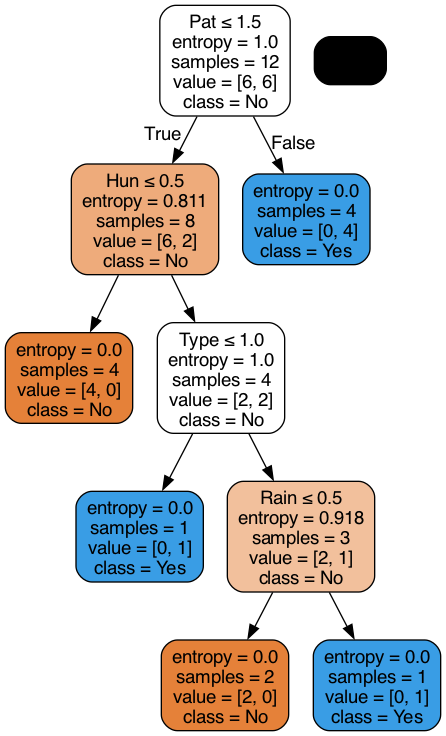
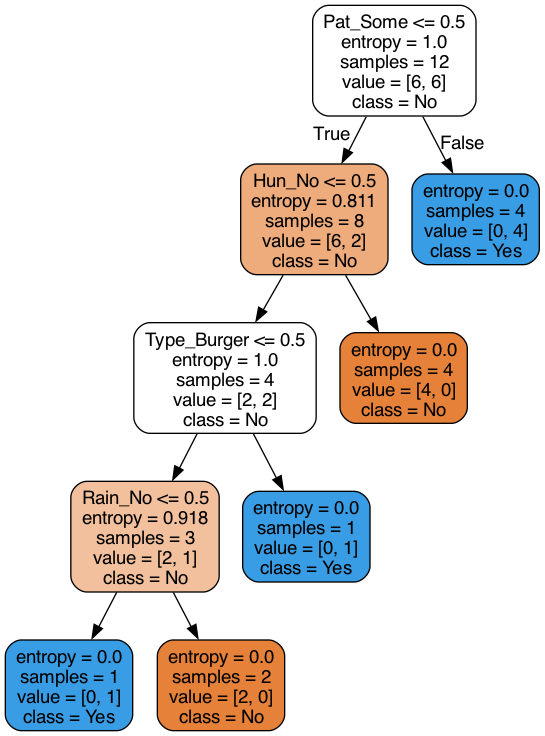
add png

diff --git a/decision_tree.py b/decision_tree.py
@@ -51,7 +51,10 @@ def build_and_train_decision_tree():
                                 class_names=label_encoder.classes_,
                                 filled=True, rounded=True)
     graph = graphviz.Source(dot_data)
-    graph.render('decision_tree')
+    #create png instead
+    png_file_path = 'decision_tree'
+    graph.format = 'png'
+    graph.render(filename=png_file_path, cleanup=True)
     
     return DecisionTree, encoder
 

diff --git a/user_interface.py b/user_interface.py
@@ -42,11 +42,11 @@ def run_ui():
   
     submit_button = tk.Button(root, text="Submit", command=submit)
     submit_button.grid(row=len(labels)+1, column=1)
-    '''
+    
     image = Image.open("decision_tree.png")
     photo = ImageTk.PhotoImage(image)
     label = tk.Label(root, image=photo)
     label.image = photo
     label.grid(row=len(labels)+2, column=0, columnspan=2)
-    '''
+    
     root.mainloop()
